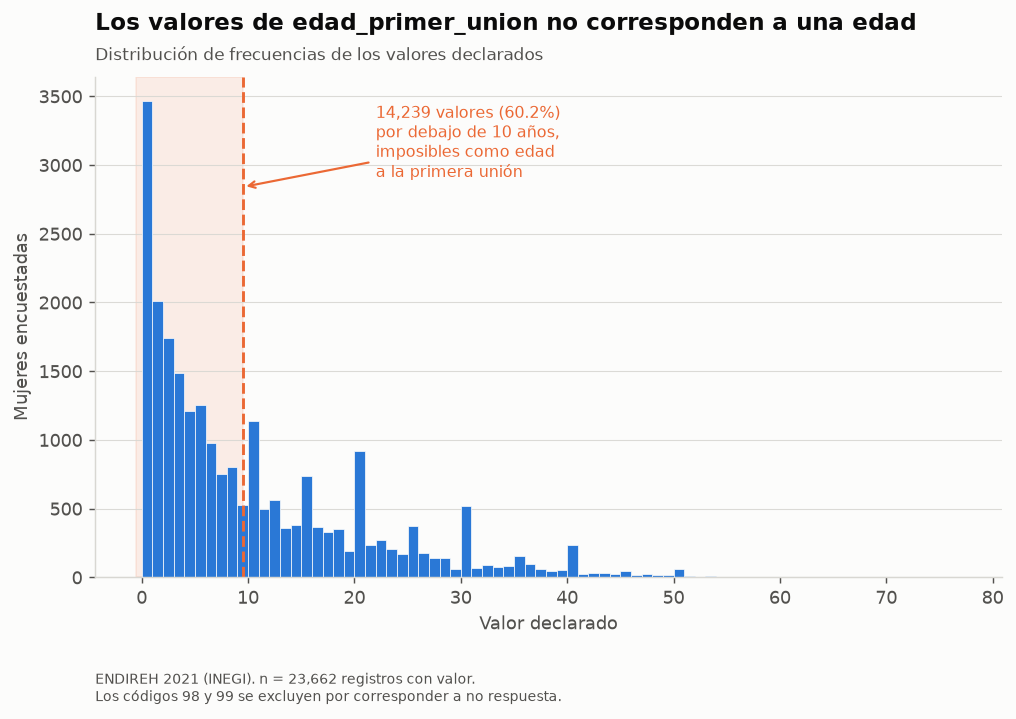
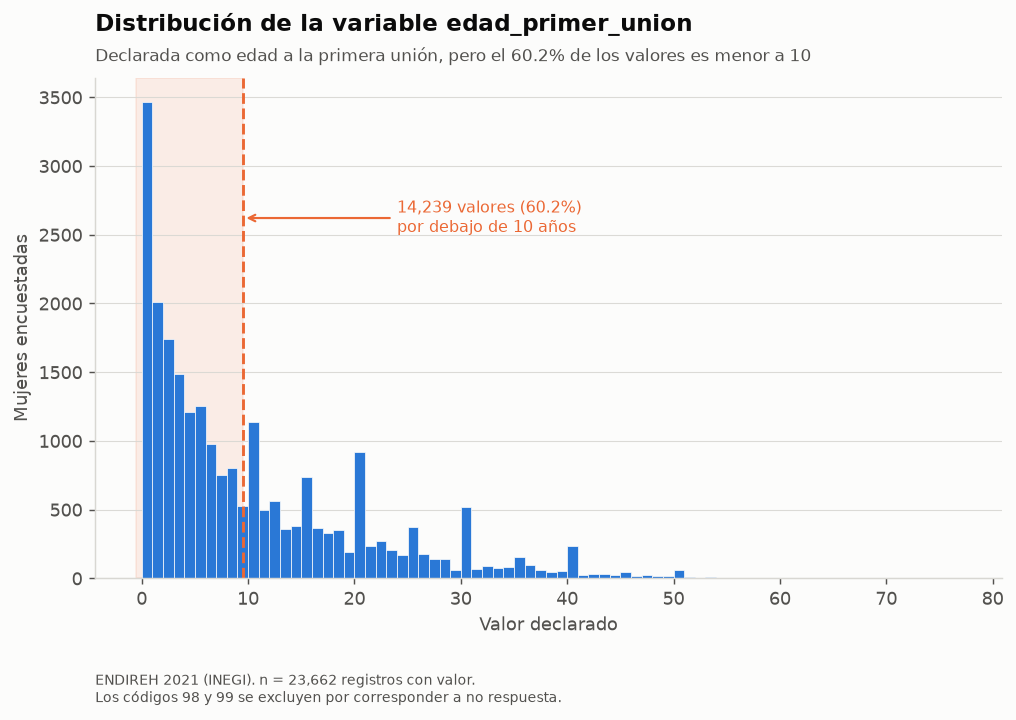
otro update

diff --git a/src/visualization/graficas.py b/src/visualization/graficas.py
@@ -8,6 +8,8 @@ insertarse en el reporte:
     02_ingreso_por_violencia.png
     03_prevalencia_por_entidad.png
     04_prevalencia_por_estado_civil.png
+    05_dispersion_edad_por_violencia.png
+    06_escolaridad_muestra_vs_poblacion.png
 
 Cuatro criterios de diseno se aplican en todas ellas:
 
@@ -221,21 +223,27 @@ def figura_01_distribucion_edad(df: pl.DataFrame) -> None:
 
     ax.axvspan(-0.5, 9.5, color=NARANJA, alpha=0.10, zorder=0)
     ax.axvline(9.5, color=NARANJA, linewidth=1.6, linestyle="--")
+    # La flecha y el texto comparten altura, y el texto se centra
+    # verticalmente sobre ella, de modo que la flecha quede horizontal.
+    altura = ax.get_ylim()[1] * 0.72
     ax.annotate(
         f"{imposibles:,} valores ({100 * imposibles / len(valores):.1f}%)\n"
-        "por debajo de 10 años,\nimposibles como edad\na la primera unión",
-        xy=(9.5, ax.get_ylim()[1] * 0.78),
-        xytext=(22, ax.get_ylim()[1] * 0.80),
+        "por debajo de 10 años",
+        xy=(9.5, altura),
+        xytext=(24, altura),
         fontsize=9,
         color=NARANJA,
+        va="center",
+        ha="left",
         arrowprops=dict(arrowstyle="->", color=NARANJA, linewidth=1.2),
     )
 
     preparar_ejes(ax)
     titular(
         ax,
-        "Los valores de edad_primer_union no corresponden a una edad",
-        "Distribución de frecuencias de los valores declarados",
+        "Distribución de la variable edad_primer_union",
+        "Declarada como edad a la primera unión, pero el "
+        f"{100 * imposibles / len(valores):.1f}% de los valores es menor a 10",
     )
     ax.set_xlabel("Valor declarado")
     ax.set_ylabel("Mujeres encuestadas")
@@ -388,6 +396,145 @@ def figura_04_prevalencia_estado_civil(df: pl.DataFrame) -> None:
     guardar(fig, "04_prevalencia_por_estado_civil.png")
 
 
+def figura_05_dispersion_edad(df: pl.DataFrame) -> None:
+    """
+    Diagrama de caja de edad_primer_union segun si se reporto violencia.
+
+    Pone en imagen la comparacion de dispersion del Paso 7: la caja abarca el
+    rango intercuartilico y la linea interior marca la mediana, de modo que dos
+    cajas iguales describen dos distribuciones con la misma forma.
+    """
+    sub = df.filter(pl.col("edad_primer_union").is_not_null())
+    con = sub.filter(pl.col("sufrio_violencia_pareja") == 1)[
+        "edad_primer_union"
+    ].to_numpy()
+    sin = sub.filter(pl.col("sufrio_violencia_pareja") == 0)[
+        "edad_primer_union"
+    ].to_numpy()
+
+    fig, ax = plt.subplots(figsize=(9, 4.8))
+    cajas = ax.boxplot(
+        [sin, con],
+        tick_labels=["No reportó\nviolencia", "Reportó\nviolencia"],
+        vert=False,
+        patch_artist=True,
+        widths=0.5,
+        showfliers=False,
+        medianprops=dict(color=TINTA, linewidth=2),
+        whiskerprops=dict(color=TINTA_SUAVE, linewidth=1.2),
+        capprops=dict(color=TINTA_SUAVE, linewidth=1.2),
+        boxprops=dict(linewidth=0),
+    )
+    for caja, color in zip(cajas["boxes"], (AZUL, NARANJA)):
+        caja.set_facecolor(color)
+
+    # Los cuartiles coinciden en ambos grupos, asi que se rotulan una sola vez.
+    q1, mediana, q3 = np.percentile(sin, [25, 50, 75])
+    for valor, etiqueta in ((q1, "Q1"), (mediana, "Mediana"), (q3, "Q3")):
+        ax.annotate(
+            f"{etiqueta} = {valor:.0f}",
+            xy=(valor, 2.42),
+            fontsize=8.5,
+            color=TINTA_SUAVE,
+            ha="center",
+        )
+
+    ax.set_ylim(0.4, 2.7)
+    preparar_ejes(ax, eje_valor="x")
+    titular(
+        ax,
+        "Ambos grupos comparten la misma distribución",
+        "Dispersión de edad_primer_union según si se reportó violencia de pareja",
+    )
+    ax.set_xlabel("Valor declarado")
+    pie_de_figura(
+        ax,
+        f"ENDIREH 2021 (INEGI). n = {len(con):,} con violencia y {len(sin):,} sin violencia; "
+        "no se dibujan los valores atípicos.\n"
+        "Los dos grupos coinciden en Q1 (2), mediana (6), Q3 (15), IQR (13) y media (10.03): "
+        "la variable no discrimina\nentre quienes reportaron violencia y quienes no.",
+    )
+    guardar(fig, "05_dispersion_edad_por_violencia.png")
+
+
+def figura_06_escolaridad(df: pl.DataFrame) -> None:
+    """
+    Distribucion de nivel_escolaridad en la muestra y en la poblacion.
+
+    Contrasta el peso de cada categoria antes y despues de aplicar el factor de
+    expansion. La distancia entre ambas barras es el efecto de la ponderacion, y
+    explica por que las medidas simples y las ponderadas no coinciden.
+    """
+    resumen = (
+        df.group_by("nivel_escolaridad")
+        .agg(
+            pl.len().alias("n"),
+            pl.col("factor_expansion").sum().alias("poblacion"),
+        )
+        .with_columns(
+            (100 * pl.col("n") / df.height).alias("pct_muestra"),
+            (100 * pl.col("poblacion") / df["factor_expansion"].sum()).alias("pct_pob"),
+        )
+        # Orden natural de las categorias: al ser ordinal no se reordena por
+        # frecuencia, porque el orden forma parte de la informacion.
+        .sort("nivel_escolaridad")
+    )
+    categorias = [str(x) for x in resumen["nivel_escolaridad"].to_list()]
+    muestra = resumen["pct_muestra"].to_numpy()
+    poblacion = resumen["pct_pob"].to_numpy()
+
+    y = np.arange(len(categorias))
+    alto = 0.38
+
+    fig, ax = plt.subplots(figsize=(9, 5.2))
+    ax.barh(
+        y + alto / 2, poblacion, height=alto, color=AZUL, label="Población estimada"
+    )
+    ax.barh(
+        y - alto / 2, muestra, height=alto, color=NARANJA, label="Muestra encuestada"
+    )
+
+    for yi, (pob, mue) in enumerate(zip(poblacion, muestra)):
+        ax.text(
+            pob + 0.6,
+            yi + alto / 2,
+            f"{pob:.1f}%",
+            va="center",
+            fontsize=9,
+            color=TINTA_SUAVE,
+        )
+        ax.text(
+            mue + 0.6,
+            yi - alto / 2,
+            f"{mue:.1f}%",
+            va="center",
+            fontsize=9,
+            color=TINTA_SUAVE,
+        )
+
+    ax.set_yticks(y, categorias)
+    ax.invert_yaxis()
+    ax.set_xlim(0, max(poblacion.max(), muestra.max()) * 1.20)
+    preparar_ejes(ax, eje_valor="x")
+    ax.legend(frameon=False, loc="lower right", fontsize=9.5)
+    titular(
+        ax,
+        "La ponderación redistribuye el peso entre categorías",
+        "Distribución de nivel_escolaridad en la muestra y en la población estimada",
+    )
+    ax.set_xlabel("Porcentaje del total (%)")
+    pie_de_figura(
+        ax,
+        f"ENDIREH 2021 (INEGI). n = {df.height:,} registros; la población estimada pondera "
+        "cada registro por factor_expansion.\n"
+        "A1 pierde 7.4 puntos al ponderar y C1 gana 5.3. Esa redistribución es la razón por "
+        "la que una medida simple y\nsu versión ponderada no coinciden. Las categorías A1 a "
+        "C2 no corresponden al catálogo educativo del INEGI\ny se presentan sin interpretar "
+        "su contenido.",
+    )
+    guardar(fig, "06_escolaridad_muestra_vs_poblacion.png")
+
+
 # --------------------------------------------------------------------------
 
 
@@ -404,7 +551,9 @@ def generar_graficas() -> None:
     figura_02_ingreso_por_violencia(df)
     figura_03_prevalencia_entidad(df)
     figura_04_prevalencia_estado_civil(df)
-    print("[graficas] Listo: 4 figuras generadas.")
+    figura_05_dispersion_edad(df)
+    figura_06_escolaridad(df)
+    print("[graficas] Listo: 6 figuras generadas.")
 
 
 if __name__ == "__main__":
